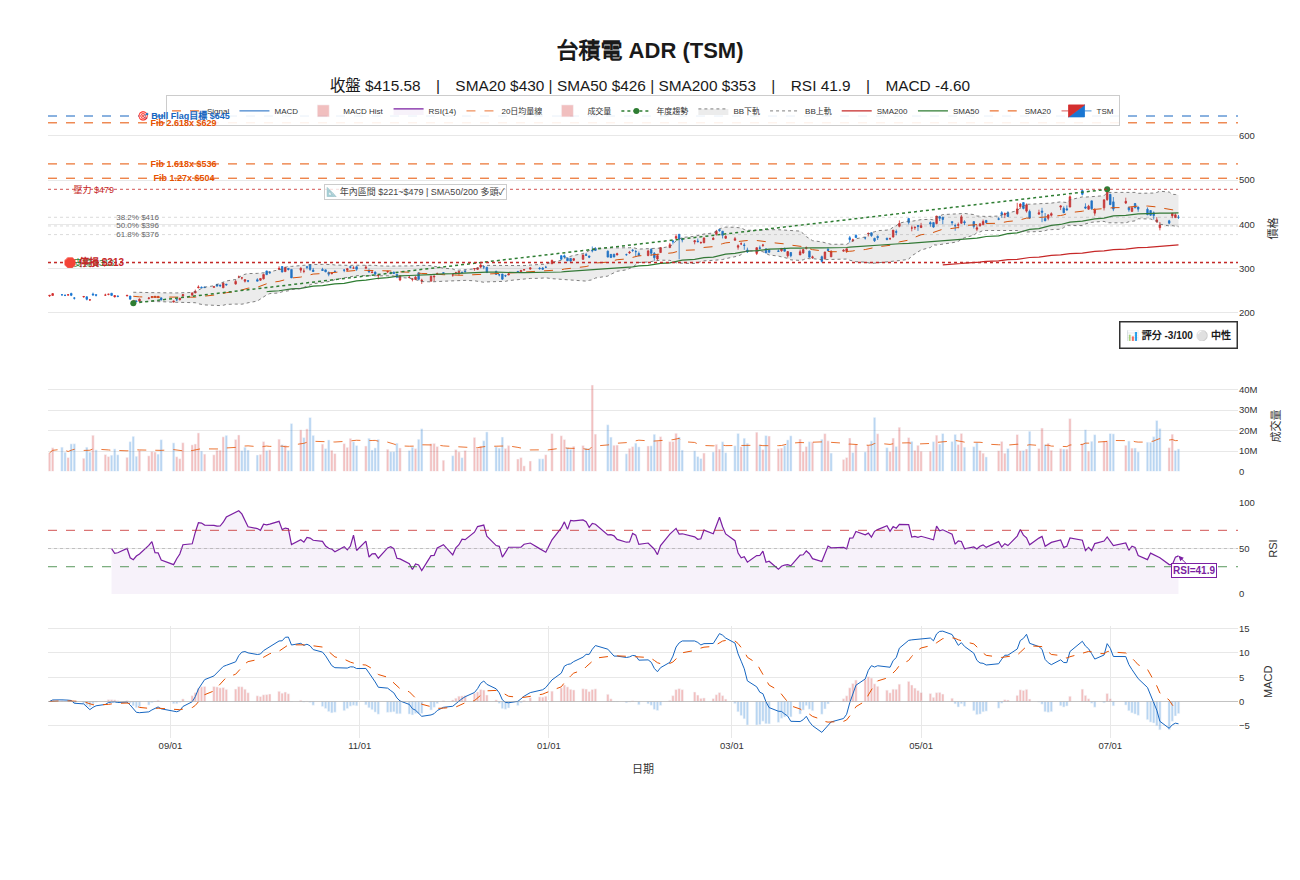
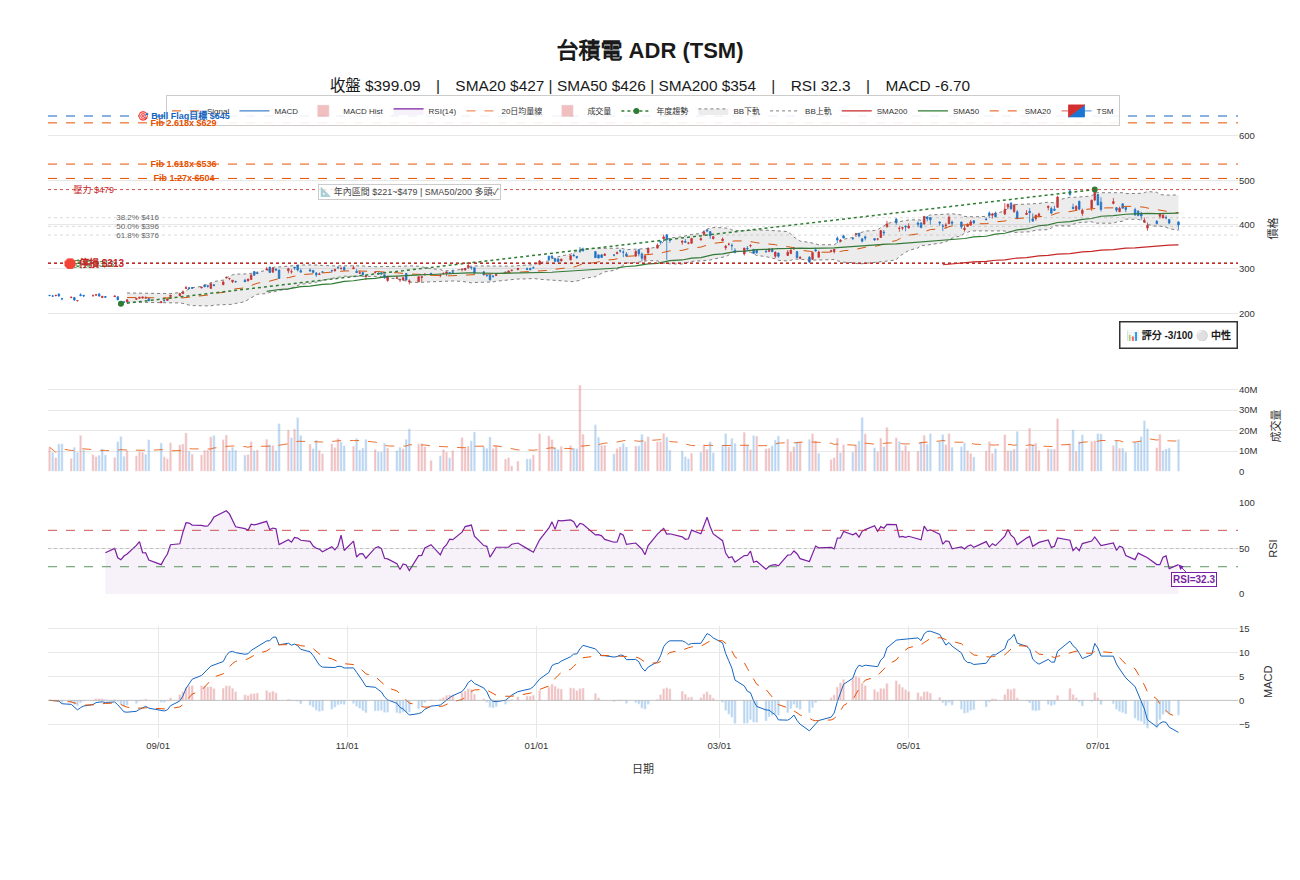
charts: 更新 2026-07-28 技術圖

diff --git a/charts/index.html b/charts/index.html
@@ -39,27 +39,27 @@ body { font-family:'Noto Sans TC',sans-serif; background:#f5f0e8; color:#1a1714;
   <a href="../">← 回首頁</a>
 </div>
 <div class="container">
-  <div class="date-badge">📅 2026/07/24 收盤 — 週五</div>
+  <div class="date-badge">📅 2026/07/27 更新 — 週一</div>
   <div class="chart-grid">
     <div class="chart-card">
       <img src="dji.png" alt="道瓊工業指數">
-      <div class="info"><h3>道瓊工業指數 DJI</h3><p>51,711.65 (-0.97%) · RSI 31.2</p></div>
+      <div class="info"><h3>道瓊工業指數 DJI</h3><p>51,947.25 (+0.46%) · RSI 32.9</p></div>
     </div>
     <div class="chart-card">
       <img src="sox.png" alt="費城半導體指數">
-      <div class="info"><h3>費城半導體指數 SOX</h3><p>12,343.84 (-0.54%) · RSI 46.7</p></div>
+      <div class="info"><h3>費城半導體指數 SOX</h3><p>11,818.88 (-4.25%) · RSI 38.0</p></div>
     </div>
     <div class="chart-card">
       <img src="ixic.png" alt="納斯達克指數">
-      <div class="info"><h3>納斯達克指數 IXIC</h3><p>25,137.69 (-2.15%) · RSI 40.5</p></div>
+      <div class="info"><h3>納斯達克指數 IXIC</h3><p>24,975.82 (-0.64%) · RSI 33.7</p></div>
     </div>
     <div class="chart-card">
       <img src="tsm.png" alt="台積電 ADR">
-      <div class="info"><h3>台積電 ADR (TSM)</h3><p>$415.58 (-1.34%) · RSI 41.9</p></div>
+      <div class="info"><h3>台積電 ADR (TSM)</h3><p>$403.41 (-2.93%) · RSI 27.9</p></div>
     </div>
     <div class="chart-card">
       <img src="intc.png" alt="Intel">
-      <div class="info"><h3>Intel (INTC)</h3><p>$100.23 (-2.33%) · RSI 32.8</p></div>
+      <div class="info"><h3>Intel (INTC)</h3><p>$92.32 (-7.89%) · RSI 26.9</p></div>
     </div>
     <div class="chart-card" style="cursor:pointer;" onclick="location.href='taiex-technical.html'">
       <div style="height:160px;background:linear-gradient(135deg,#1a1a2e,#16213e);display:flex;align-items:center;justify-content:center;">
